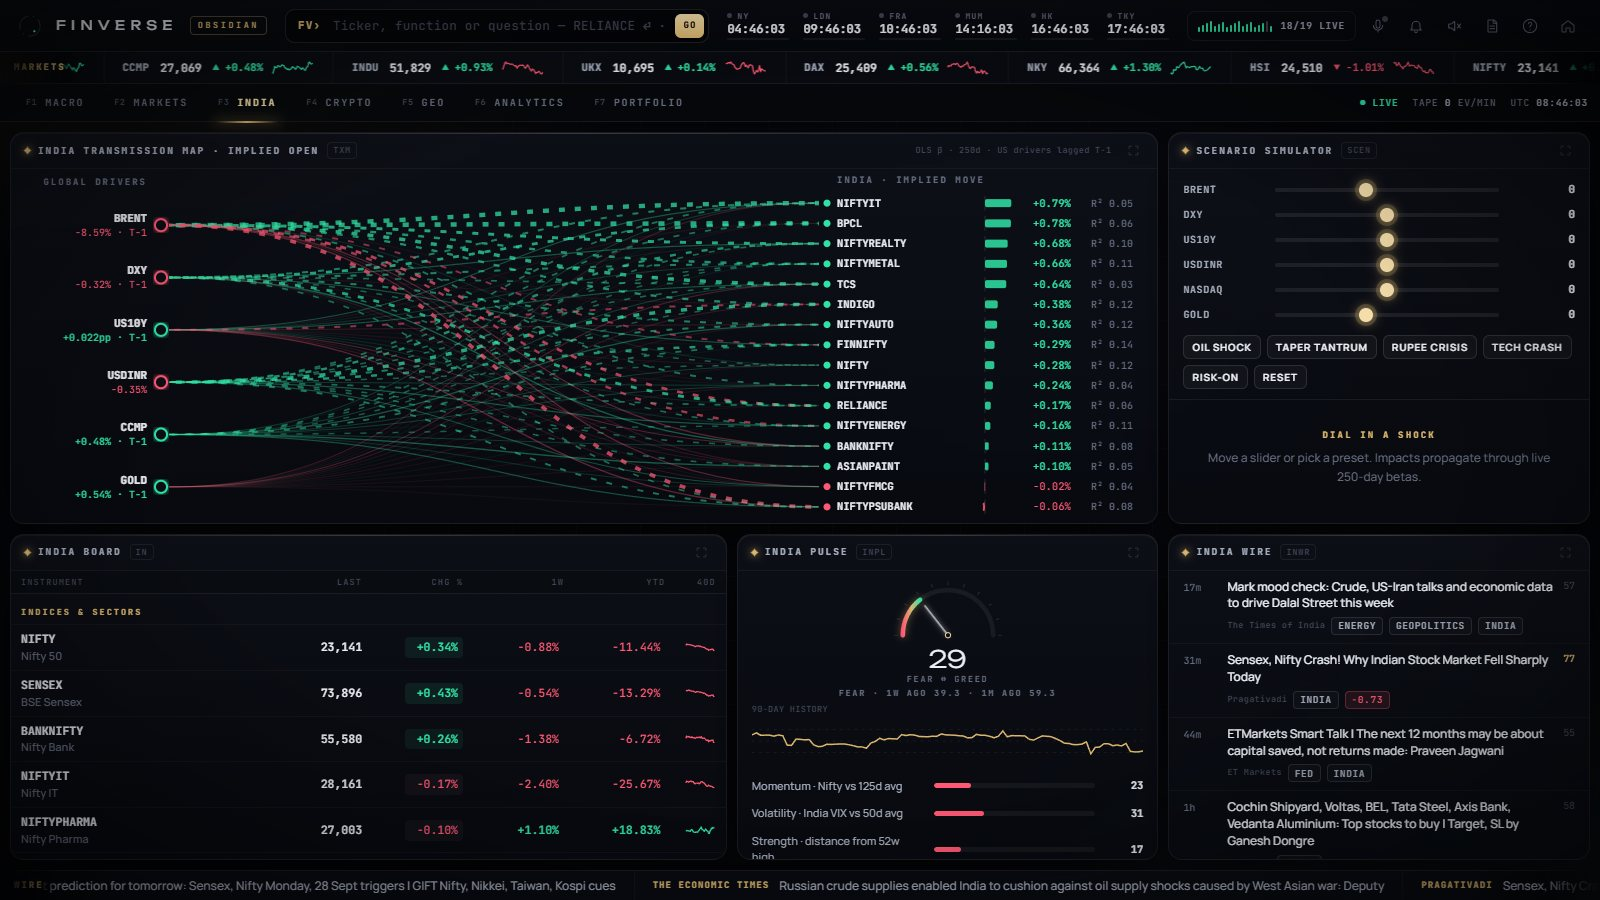
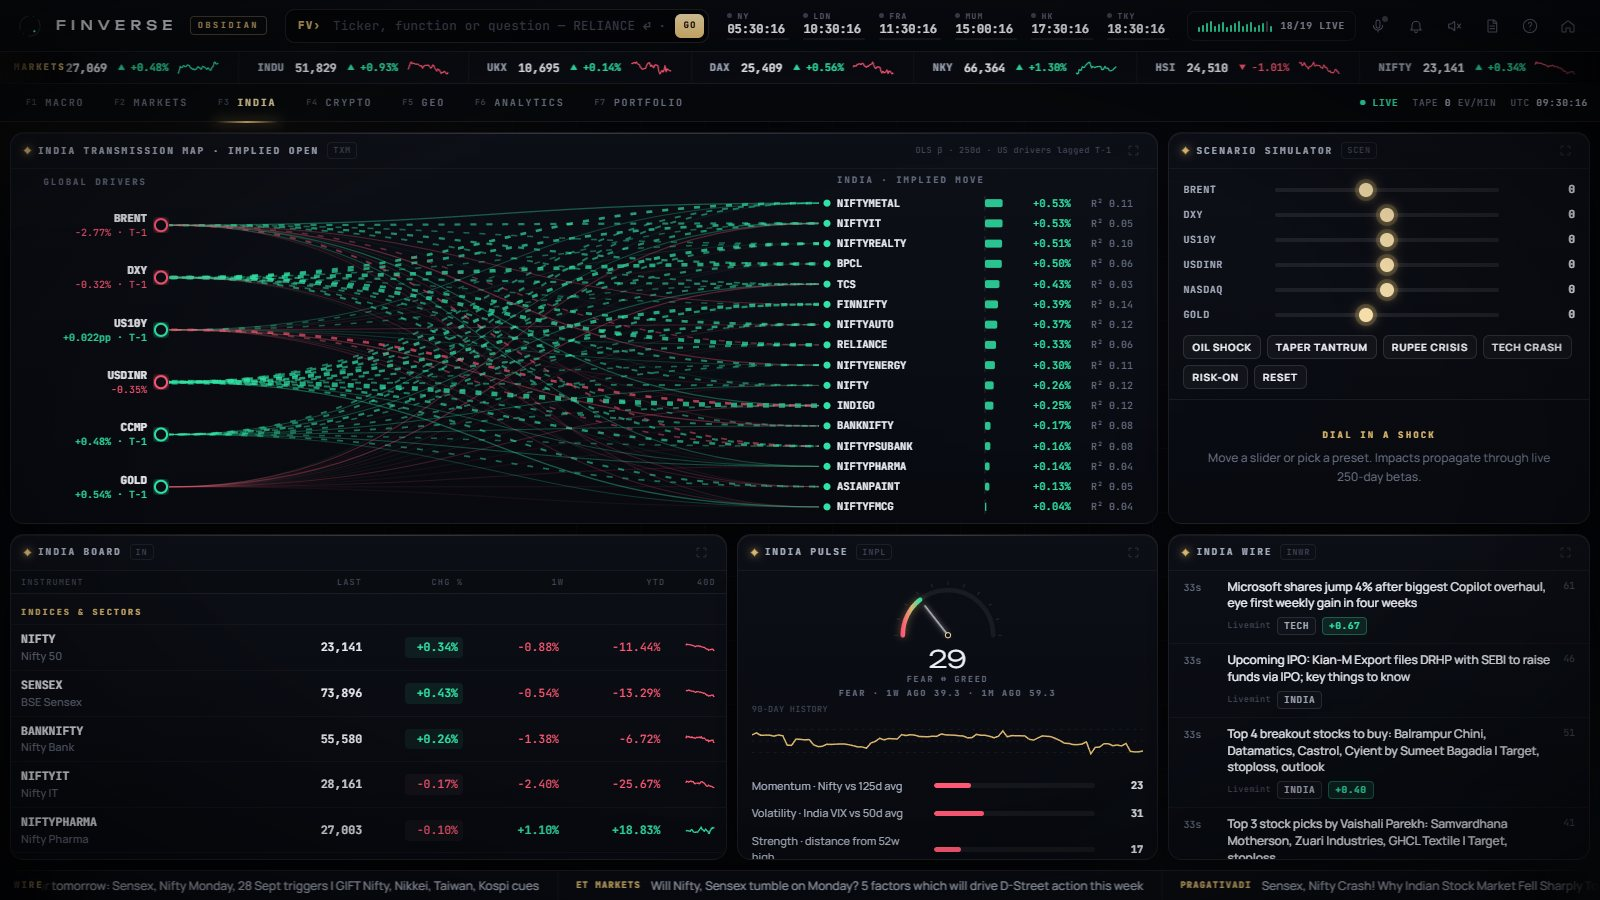
Back-adjust futures history at contract rolls; refresh screenshots
- Detect roll days from the front contract and back-adjust the continuous
  history, so the India transmission model, implied open, pulse and
  event studies no longer treat a roll as a price move.
- Refresh workspace screenshots and add the CRYPTO workspace.

diff --git a/finverse/providers/markets.py b/finverse/providers/markets.py
@@ -47,12 +47,14 @@ class Markets:
         self.last_quote_ts = 0.0
         self.fronts: dict[str, str] = {}  # continuous future -> current front contract, e.g. BZ=F -> BZZ26.NYM
         self._fronts_ts = 0.0
+        self.rolls: dict[str, dict[str, float]] = {}  # future -> {roll day: back-adjustment ratio}
 
     # ------------------------------------------------------------------ boot
     def load_cache(self):
         if HIST_PICKLE.exists():
             try:
-                self.closes = pd.read_pickle(HIST_PICKLE)
+                self.rolls = store.kv_get("rolls") or {}
+                self.closes = self._roll_adjusted(pd.read_pickle(HIST_PICKLE), self.rolls)
                 log.info("history cache loaded: %s", self.closes.shape)
             except Exception as e:
                 log.warning("history cache unreadable: %s", e)
@@ -69,10 +71,52 @@ class Markets:
         closes = closes.groupby(level=0).last()
         if closes.shape[1] < 10:
             raise RuntimeError(f"history download returned only {closes.shape[1]} series")
-        self.closes = closes
-        closes.to_pickle(HIST_PICKLE)
+        closes.to_pickle(HIST_PICKLE)  # cached raw; roll adjustments are re-applied on load
+        self.closes = self._roll_adjusted(closes, self.rolls)
         log.info("history refreshed: %s", closes.shape)
         return closes.shape
+
+    @staticmethod
+    def _roll_adjusted(closes: pd.DataFrame, rolls: dict) -> pd.DataFrame:
+        """Back-adjust continuous futures: scale everything before a roll day by the ratio of the
+        new contract to the old one that day, so the roll itself is not a price move."""
+        if closes.empty or not rolls:
+            return closes
+        closes = closes.copy()
+        for sym, days in rolls.items():
+            if sym not in closes:
+                continue
+            col = closes[sym]
+            for day, ratio in days.items():
+                col = col.where(col.index >= pd.Timestamp(day), col * ratio)
+            closes[sym] = col
+        return closes
+
+    def _detect_rolls(self, close: pd.DataFrame):
+        """Find roll days in the last few sessions: the continuous series starts tracking the front contract."""
+        new = {}
+        for sym, front in self.fronts.items():
+            if sym not in close or front not in close:
+                continue
+            both = pd.concat([close[sym], close[front]], axis=1, keys=["c", "f"]).dropna()
+            if len(both) < 2:
+                continue
+            same = ((both["c"] / both["f"] - 1).abs() < 0.003).tolist()
+            if not same[-1] or all(same):
+                continue
+            i = len(same) - 1
+            while same[i - 1]:
+                i -= 1
+            day = str(both.index[i].date())
+            if day in self.rolls.get(sym, {}):
+                continue
+            ratio = float(both["f"].iloc[i - 1] / both["c"].iloc[i - 1])
+            self.rolls.setdefault(sym, {})[day] = ratio
+            new[sym] = {day: ratio}
+            log.info("futures roll: %s on %s (x%.4f)", sym, day, ratio)
+        if new:
+            store.kv_set("rolls", self.rolls)
+            self.closes = self._roll_adjusted(self.closes, new)
 
     def series(self, sym: str, n: int | None = None) -> pd.Series:
         if self.closes.empty or sym not in self.closes:
@@ -125,6 +169,7 @@ class Markets:
         if df is None or df.empty:
             raise RuntimeError("empty quote download")
         close = df["Close"]
+        self._detect_rolls(close)
         changed = {}
         for sym in close.columns:
             if sym not in BY_SYM:

diff --git a/README.md b/README.md
@@ -197,7 +197,7 @@ URL flags: `?intro=0` skips the cinematic · `?to=terminal` opens straight into 
 
 ## Known limitations
 
-- Yahoo Finance quotes are delayed (~15 min for most exchanges). Day moves on futures are measured on the front contract, but the 2-year history still uses Yahoo's continuous series, so charts show a small step on contract-roll days.
+- Yahoo Finance quotes are delayed (~15 min for most exchanges). Futures moves are measured on the front contract and the analytics history is back-adjusted at every roll Finverse observes, but rolls from before its first run remain in the 2-year history as small steps.
 - GDELT rate-limits aggressively; the conflict index then falls back to the Finverse wire and is marked low-confidence.
 - Some networks receive no Binance futures stream data; OKX and Bybit keep the liquidation tape alive.
 - Market sessions model regular hours only (exchange holidays are not yet modelled).

diff --git a/CHANGELOG.md b/CHANGELOG.md
@@ -6,6 +6,7 @@ All notable changes to this project will be documented in this file.
 
 ### Fixed
 - Futures day moves (Brent, WTI, gold, silver, gas, grains…) are now measured on the actual front contract. Yahoo's continuous series splices contracts together, so on roll days the previous close came from the expiring contract (Brent showed −8.6% when the real move was −2.8%). The same fix corrects the move-vs-volatility z-score.
+- Roll days are detected automatically and the analytics history is back-adjusted, so the India transmission model, implied open, pulse and event studies no longer read a contract roll as a price move.
 
 ### Security
 - The Angel One SmartAPI library logged entire failed login requests (MPIN, TOTP, API key) to the console and `logs/<date>/app.log`; that logging is now switched off.
